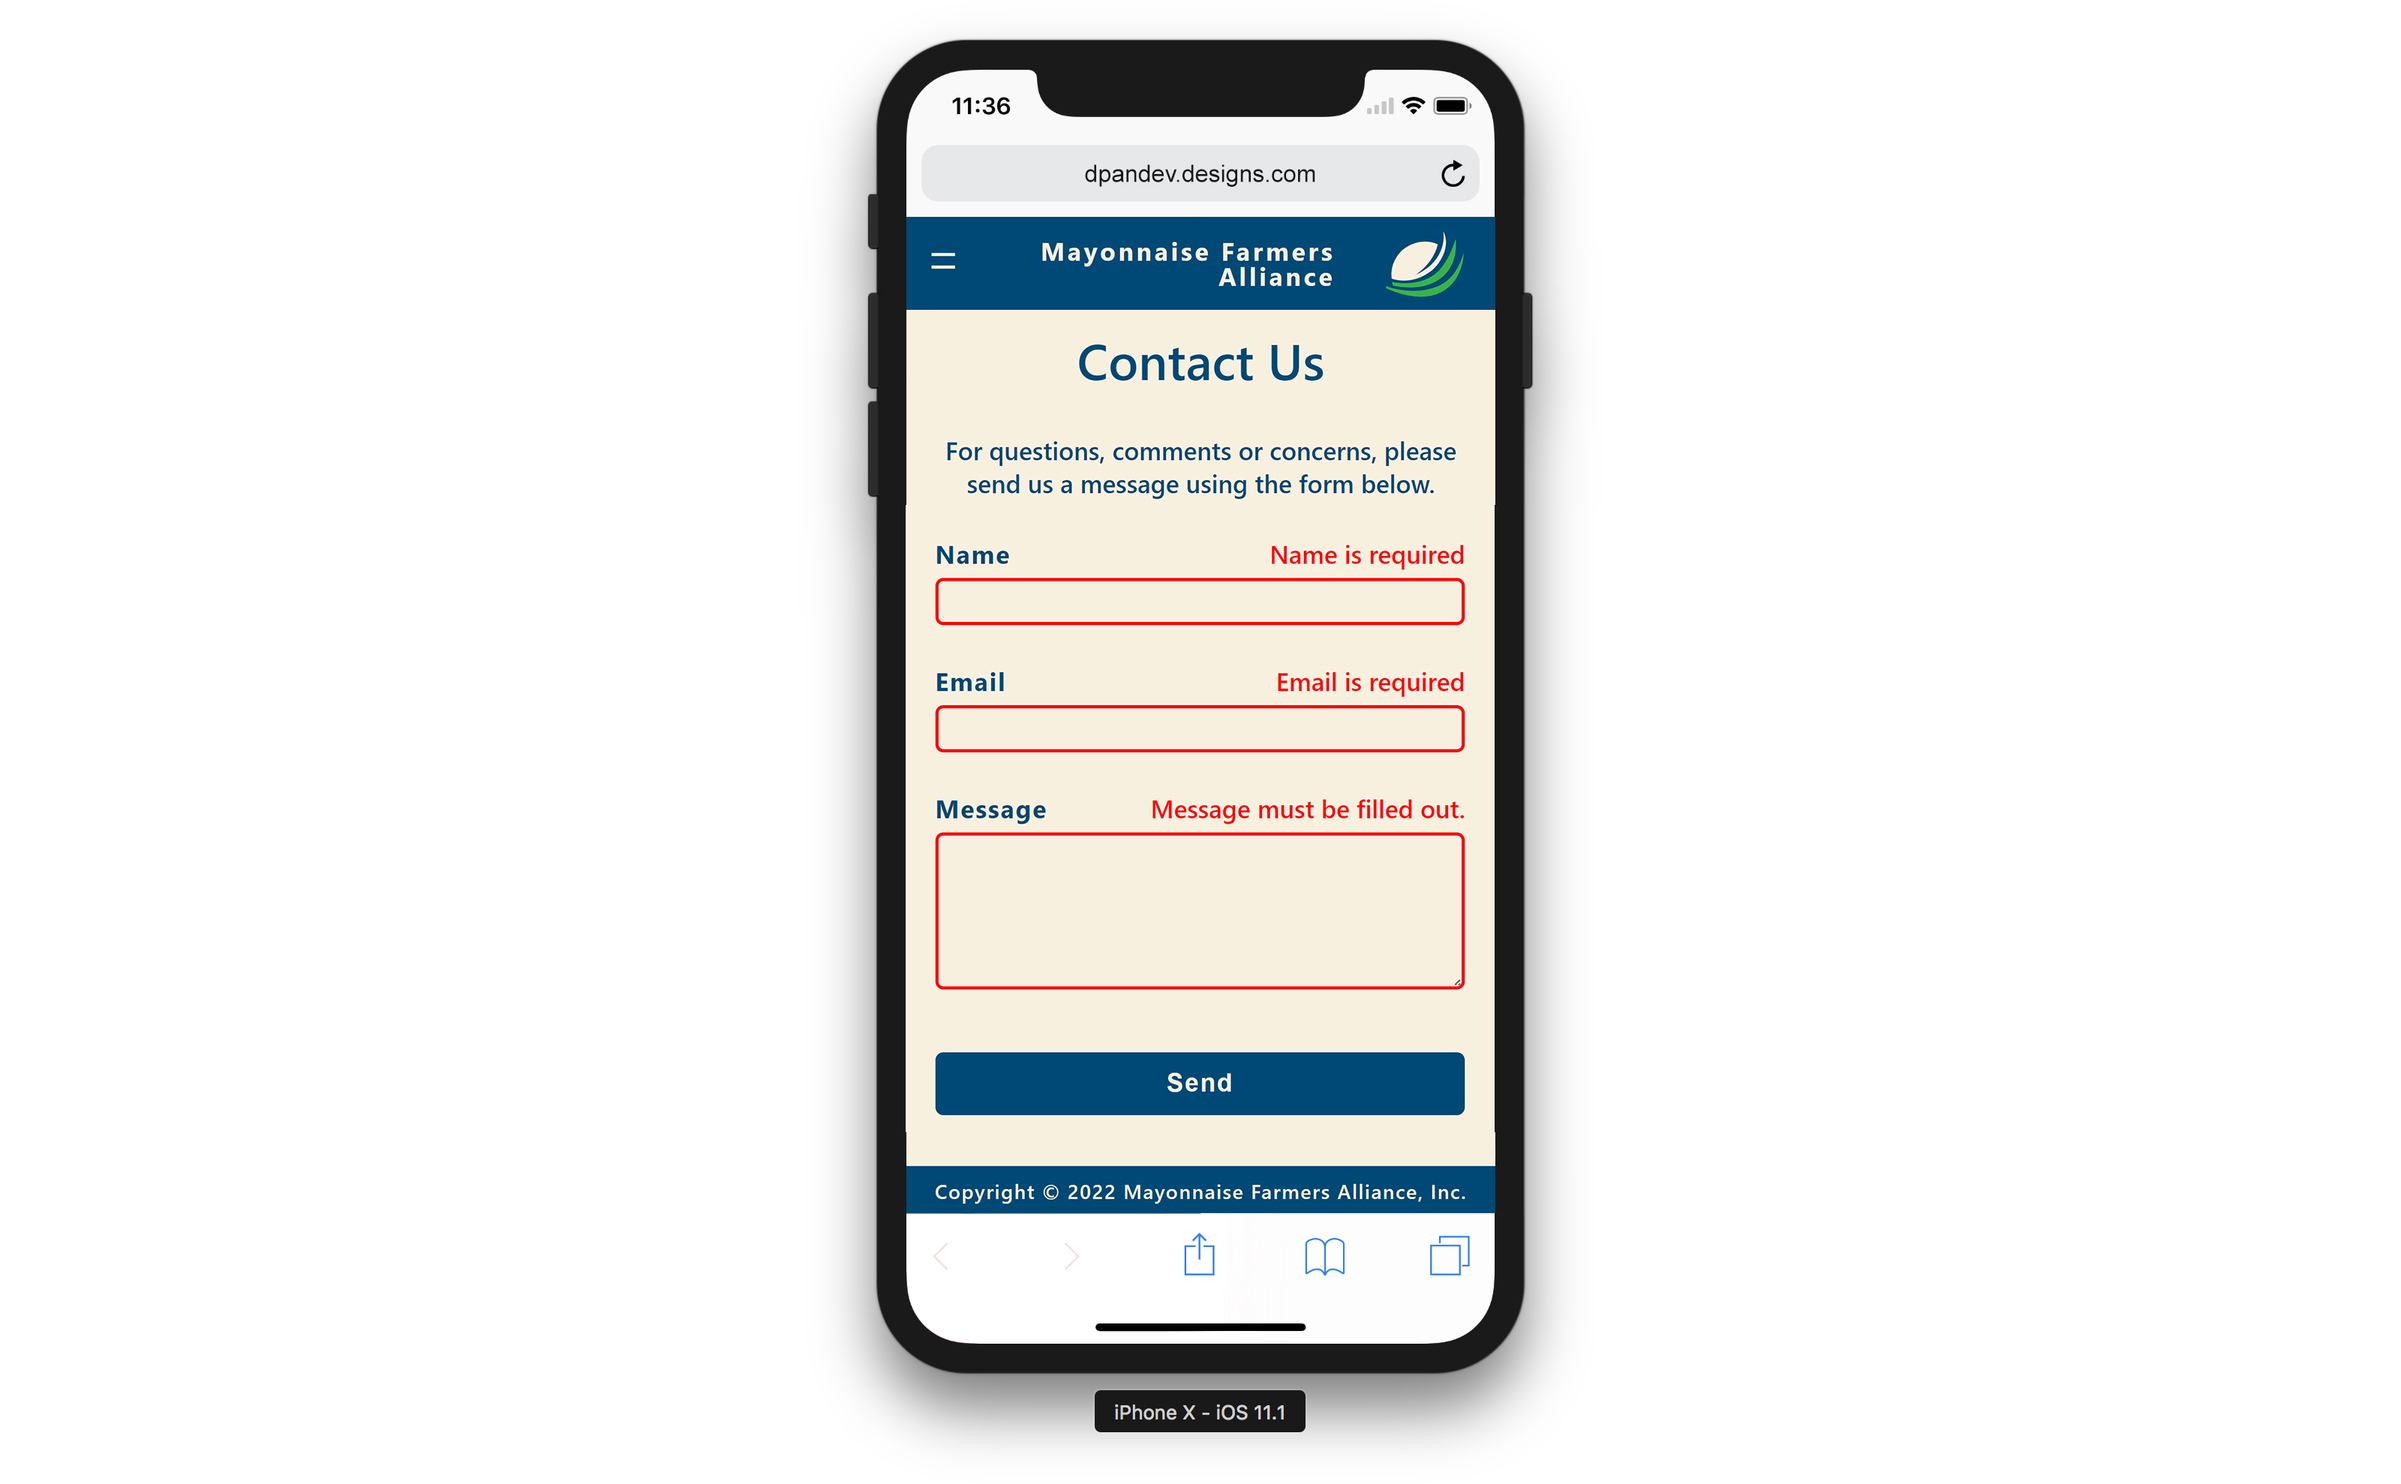
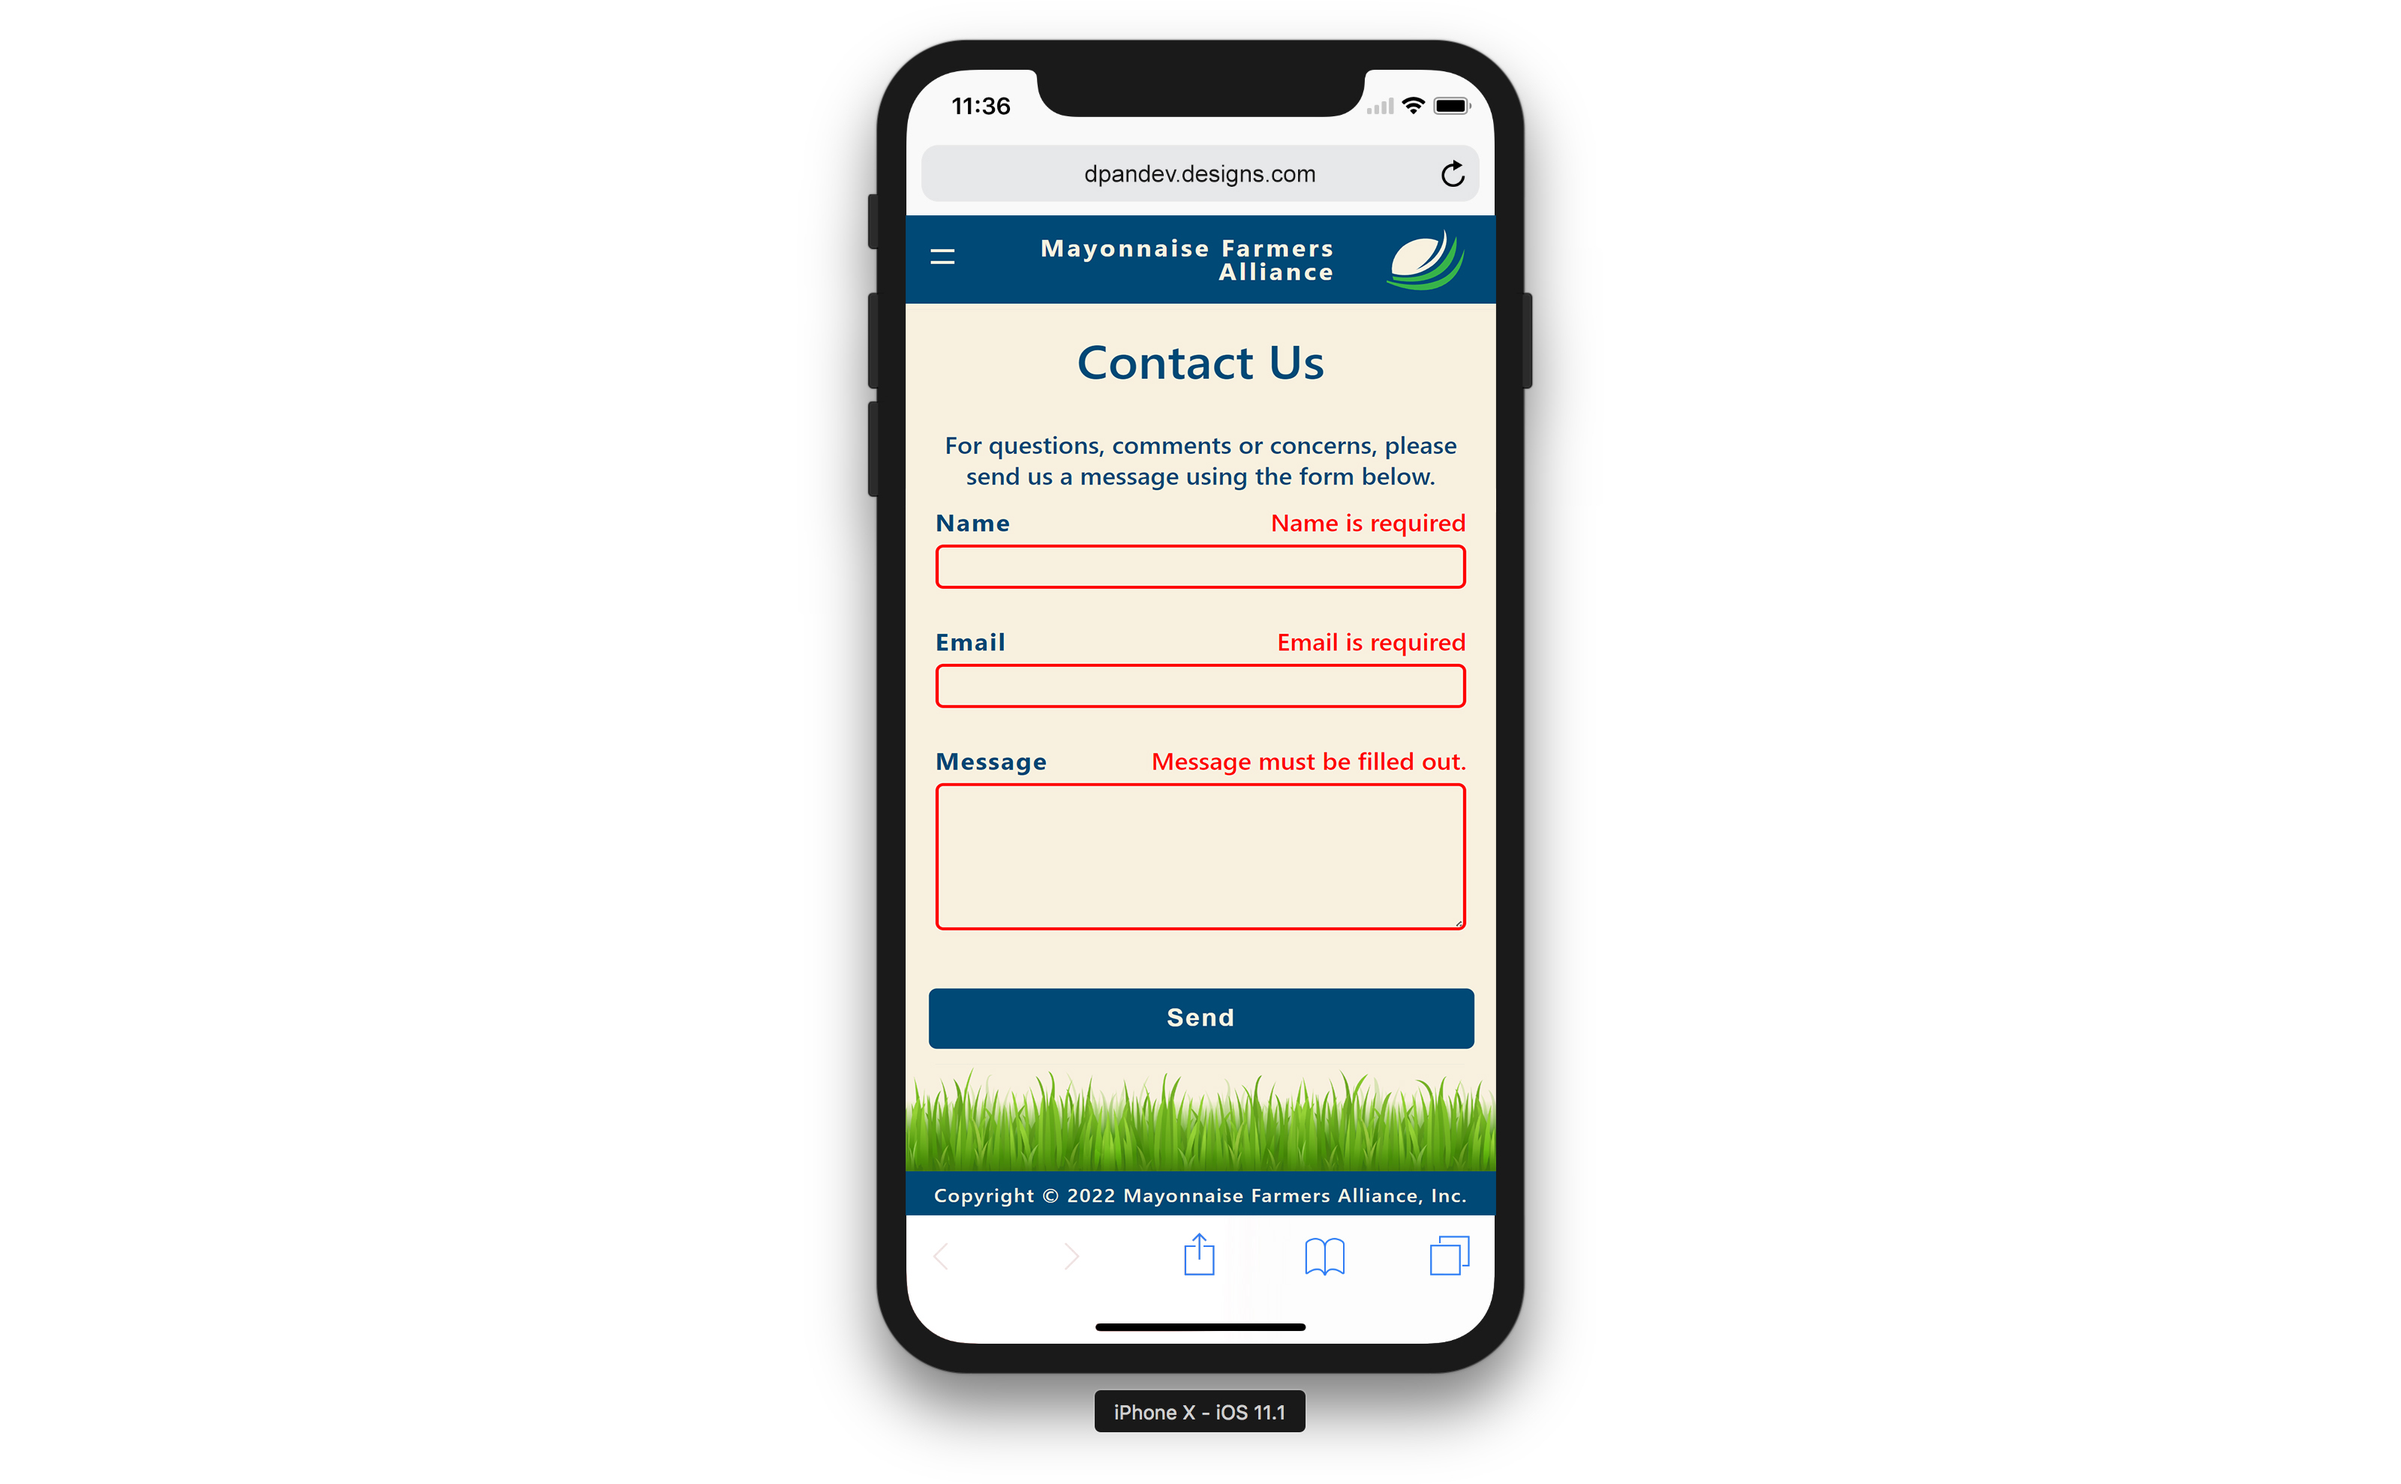
updated assets, created services page, adjusted styling across other pages

Changed region(s): [[0.375, 0.2776, 0.625, 0.5859], [0.375, 0.6168, 0.625, 0.8327], [0.375, 0.1542, 0.625, 0.2159]]

diff --git a/pages/services.jsx b/pages/services.jsx
@@ -1,0 +1,67 @@
+import React from 'react'
+import Image from 'next/image'
+import styles from '../styles/Services.module.css'
+import Link from 'next/link'
+
+const Services = () => {
+  return (
+    <div className={styles.container}>
+      <div className={styles.firstSection}>
+        <div className={styles.card}>
+          <Image 
+            src='/images/mayo-can.png' 
+            alt='' 
+            width='100%' 
+            height='100%' 
+            layout='responsive'
+            objectFit='contain'
+            className={styles.cardImage}
+          />
+        </div>
+        <div className={styles.cardAlt}>
+          <h2 className={styles.subheading}>Produce Safety Program</h2>
+          <p className={styles.description}>The MFA Produce Safety Program registers and inspects facilities that grow, harvest, pack or hold produce that is commonly consumed raw. Foodborne illnesses pose a serious health risk to individuals, and to the viability of businesses and industries impacted by an outbreak. The program inspects farms and facilities to ensure proper food safety practices, established through scientific methods, are followed and documented to help protect human health.</p>
+        </div>
+      </div>
+      <div className={styles.thirdSection}>
+        <div className={styles.cardAlt}>
+          <h2 className={styles.subheading}>Agricultural Mediation</h2>
+          <p className={styles.description}>The MFA Agricultural Mediation Program helps farmers and ranchers who are dealing with contentious issues. The program covers agricultural loans, regardless of whether the loans are made or guaranteed by USDA or a third party.</p>
+        </div>
+        <div className={`${styles.card} ${styles.noBottomPad}`}>
+          <Image 
+            src='/images/plant.png' 
+            alt='' 
+            width='100%' 
+            height='100%' 
+            layout='responsive'
+            objectFit='contain'
+          />
+        </div>
+      </div>
+      <div className={styles.banner}>
+        <h2>We're proud to take part in overseeing over 43 million acres!</h2>
+        <button className={styles.grow}><Link href='/contact'>Contact Us</Link></button>
+      </div>
+      <div className={styles.secondSection}>
+        <div className={styles.card}>
+          <Image 
+            src='/images/scale.png' 
+            alt='' 
+            width='100%' 
+            height='100%' 
+            layout='responsive'
+            objectFit='contain'
+            className={styles.cardImage}
+          />
+        </div>
+        <div className={styles.cardAlt}>
+          <h2 className={styles.subheading}>Measurement Standards Program</h2>
+          <p className={styles.description}>The Measurement Standards Program provides consumer protection and promotes equity and integrity in the marketplace. Both buyer and seller rely on accurate measurement and pricing during commercial transactions. This program establishes and enforces the method of sale for a given commodity when an existing practice does not promote value comparison.</p>
+        </div>
+      </div>
+    </div>
+  )
+}
+
+export default Services

diff --git a/styles/Services.module.css b/styles/Services.module.css
@@ -10,16 +10,14 @@
 
 .firstSection {
   width: 100%;
-  background-image: url("../public/images/farmbg.jpg");
-  background-size: cover;
-  background-repeat: no-repeat;
-  background-attachment: fixed;
-  background-position: center;
-  max-height: 80vh;
+  justify-content: center;
   display: flex;
-  flex-direction: column;
-  justify-content: flex-start;
-  padding: 10vw 0 20vw 5vw;
+  flex-direction: row;
+  padding: 4vw 2vw;
+  background-image: url('../public/images/bg-skyblue.png');
+  background-repeat: no-repeat;
+  background-position: center;
+  background-size: cover;
 }
 
 .secondSection {
@@ -28,9 +26,9 @@
   display: flex;
   flex-direction: row;
   padding: 2vw 2vw;
-  background-image: url('../public/images/bg-wave.png');
+  background-image: url('../public/images/bg-hills.png');
   background-repeat: no-repeat;
-  background-position: center;
+  background-position: top;
 }
 
 .card span {
@@ -47,20 +45,9 @@
   justify-content: center;
   display: flex;
   flex-direction: row;
-  background-image: url('../public/images/bg-geo.png');
+  background-image: url('../public/images/bg-field.png');
   background-repeat: no-repeat;
-  background-position: center;
-}
-
-.title {
-  font-size: 7vw;
-  margin: 0;
-  margin-bottom: 3vh;
-  z-index: 1;
-}
-
-.brand {
-  color: #004976;
+  background-size: cover;
 }
 
 .description {
@@ -71,19 +58,6 @@
   max-width: 50vw;
   color: #000;
   z-index: 1;
-}
-
-.button {
-  border: none;
-  background-color: #004976;
-  color: #fff;
-  font-weight: 600;
-  font-size: 1rem;
-  padding: 0.750rem 1.5rem;
-  letter-spacing: 0.25ch;
-  border-radius: 8px;
-  cursor: pointer;
-  max-width: max-content;
 }
 
 .card {
@@ -116,7 +90,7 @@
   max-width: 500px;
 }
 
-.eventBanner {
+.banner {
   display: flex;
   flex-direction: row;
   background-color: #004976;
@@ -126,9 +100,13 @@
   align-items: center;
   justify-items: center;
   padding: 1rem 0;
+  background-image: url('../public/images/bg-whiteabstract.png');
+  background-repeat: no-repeat;
+  background-position: bottom;
+  background-size: cover;
 }
 
-.eventBanner h2 {
+.banner h2 {
   display: flex;
   flex: 1;
   justify-content: center;
@@ -137,7 +115,7 @@
   margin: 2.5vw;
 }
 
-.eventBanner button {
+.banner button {
   align-self: center;
   max-width: max-content;
   max-height: max-content;
@@ -152,7 +130,7 @@
   padding: 1rem;
 }
 
-.eventBanner button:hover {
+.banner button:hover {
   background-color: #FDF6E8;
   color: #004976;
 }
@@ -166,9 +144,14 @@
 }
 
 @media screen and (max-width: 767px) {
+  .container{
+    padding-top: 0;
+  }
+
   .firstSection {
-    height: 55vh;
-    padding: 20vw 0 20vw 5vw;
+    flex-direction: column-reverse;
+    margin-top: 15vh;
+    background-image: url('../public/images/bg-grass.png');
   }
 
   .title {
@@ -193,7 +176,7 @@
     margin-top: -10vw;
   }
 
-  .eventBanner h2 {
+  .banner h2 {
     font-size: 1.2rem;
   }
 }

diff --git a/components/MainSection.jsx b/components/MainSection.jsx
@@ -27,20 +27,20 @@ const MainSection = () => {
         <div className={styles.cardAlt}>
           <h2 className={styles.subheading}>Partners with the best mayonnaise producers in the world</h2>
           <p className={styles.description}>Mayonnaise Farmers Alliance brings 1300+ years of industry experience and empowers mayonnaise farmers to unleash the full potential of thier crop.</p>
-          <button className={`${styles.grow} ${styles.button}`}><Link href='/food-services'>Learn More</Link></button>
+          <button className={`${styles.grow} ${styles.button}`}><Link href='/services'>Learn More</Link></button>
         </div>
       </div>
       <div className={styles.eventBanner}>
         <h2>Checkout this year's Mayonnaise Festivals!</h2>
-        <button className={styles.grow}><Link href='/events'>View Events</Link></button>
+        <button className={styles.grow}><Link href='/services'>View Events</Link></button>
       </div>
       <div className={styles.thirdSection}>
         <div className={styles.cardAlt}>
           <h2 className={styles.subheading}>Meet the Farmers</h2>
           <p className={styles.description}>Meet our growers from far and wide that have jumped on board to partner with us.</p>
-          <button className={`${styles.button} ${styles.grow}`}><Link href='/farmers'>Learn More</Link></button>
+          <button className={`${styles.button} ${styles.grow}`}><Link href='/about'>Learn More</Link></button>
         </div>
-        <div className={styles.card}>
+        <div className={`${styles.card} ${styles.noBottomPad}`}>
           <Image 
             src='/images/farmer.png' 
             alt='' 

diff --git a/pages/about.jsx b/pages/about.jsx
@@ -17,26 +17,26 @@ const About = () => {
           <a className={styles.button}>Contact Us</a>
         </Link>
       </div>
-      <div className={styles.section}>
+      <div className={`${styles.section} ${styles.marginTop}`}>
         <div className={styles.heading}>
           <h2>Our History</h2>
         </div>
         <div className={styles.text}>
           <span>MFA was founded in 1992 as an organization for farmers. We use farmer-led investigation and information sharing to help farmers practice an agriculture that benefits both the land and people. Our members have conventional and organic systems; employ diverse management practices; run operations of all sizes; and come from a range of backgrounds. These farmers come together, however, because they believe in nature as the model for agriculture and they are committed to moving their operations toward sustainability.</span>
         </div>
-        <Link href='/farmers'>
-          <a className={styles.button}>Meet the Farmers</a>
+        <Link href='/services'>
+          <a className={styles.button}>View Our Services</a>
         </Link>
       </div>
-      {/* <div className={styles.bottom}>
+      <div className={styles.bottom}>
           <Image
-            src='/../public/images/farmRedBarn.jpg'
+            src='/../public/images/bg-farming.png'
             layout='responsive'
             width={200}
-            height={200}
+            height={100}
             className={styles.image}
           />
-        </div> */}
+        </div>
     </div>
   )
 }

diff --git a/components/Navbar.jsx b/components/Navbar.jsx
@@ -43,13 +43,7 @@ export const Navbar = () => {
               <Link href='/'>Home</Link>
             </li>
             <li className={styles.listItem}>
-              <Link href='/farmers'>Farmers</Link>
-            </li>
-            <li className={styles.listItem}>
               <Link href='/services'>Services</Link>
-            </li>
-            <li className={styles.listItem}>
-              <Link href='/safety'>Safety</Link>
             </li>
             <li className={styles.listItem}>
               <Link href='/about'>About</Link>
@@ -98,9 +92,7 @@ export const Navbar = () => {
         <div className={styles.mobileNavMenu}>
           <div className={styles.mobileNavList}>
             <Link href='/'><a onClick={toggleMobileMenu}>Home</a></Link>
-            <Link href='/farmers'><a onClick={toggleMobileMenu}>Farmers</a></Link>
             <Link href='/services'><a onClick={toggleMobileMenu}>Food Services</a></Link>
-            <Link href='/safety'><a onClick={toggleMobileMenu}>Food Safety</a></Link>
             <Link href='/about'><a onClick={toggleMobileMenu}>About Us</a></Link>
             <Link href='/contact'><a onClick={toggleMobileMenu}>Contact Us</a></Link>
           </div>

diff --git a/styles/About.module.css b/styles/About.module.css
@@ -1,9 +1,13 @@
 .container {
   display: flex;
   flex-direction: column;
-  padding: 3vh 3vw;
+  padding-top: 20vh;
   overflow: hidden;
   width: 100%;
+  background-image: url('../public/images/bg-greenabstract.png');
+  background-repeat: no-repeat;
+  background-position: top;
+  background-size: cover;
   /* min-height: calc(100vh - 105px); */
 }
 
@@ -18,8 +22,9 @@
 .section {
   display: flex;
   flex-direction: column;
-  margin: auto auto 15vh auto;
+  margin: auto;
   align-items: center;
+  padding: 0 3vw;
 }
 
 .section .text {
@@ -40,6 +45,19 @@
   border-radius: 8px;
   margin-top: 3vw;
   max-width: fit-content;
+  transition: all 0.2s ease-in-out;
+}
+
+.button:hover {
+  transform: scale(1.1);
+}
+
+.bottom {
+  padding: 0;
+}
+
+.marginTop {
+  margin-top: 30vh;
 }
 
 @media screen and (max-width: 767px) {

diff --git a/styles/Contact.module.css b/styles/Contact.module.css
@@ -6,6 +6,10 @@
   justify-content: flex-start;
   overflow: hidden;
   height: calc(100vh - 80px);
+  background-image: url('../public/images/bg-farm.png');
+  background-repeat: no-repeat;
+  background-size: cover;
+  background-position: 40%;
 }
 
 .heading h2 {
@@ -92,6 +96,12 @@
   font-size: 1rem;
   font-weight: 700;
   letter-spacing: 0.1ch;
+  cursor: pointer;
+  transition: all 0.2s ease-in-out;
+}
+
+.formSubmit:hover {
+  transform: scale(1.025);
 }
 
 @media screen and (max-width: 767px) {
@@ -99,5 +109,8 @@
     height: calc(100vh - 30px);
     justify-content: center;
     padding: 5vh 5vw;
+    background-image: url('../public/images/bg-grass.png');
+    background-position: bottom;
+    background-size: contain;
   }
 }

diff --git a/pages/contact.jsx b/pages/contact.jsx
@@ -26,7 +26,7 @@ const Contact = () => {
       body: JSON.stringify(data),
     })
 
-    alert('SUCCESS!! :-)\n\n' + JSON.stringify(data, null, 4))
+    // alert('SUCCESS!! :-)\n\n' + JSON.stringify(data, null, 4))
     return false;
   }
 

diff --git a/styles/404.module.css b/styles/404.module.css
@@ -1,6 +1,6 @@
 .container {
   display: flex;
-  height: calc(100vh - 105px);
+  height: calc(100vh - 80px);
   flex-direction: column;
   align-items: center;
   justify-content: center;
